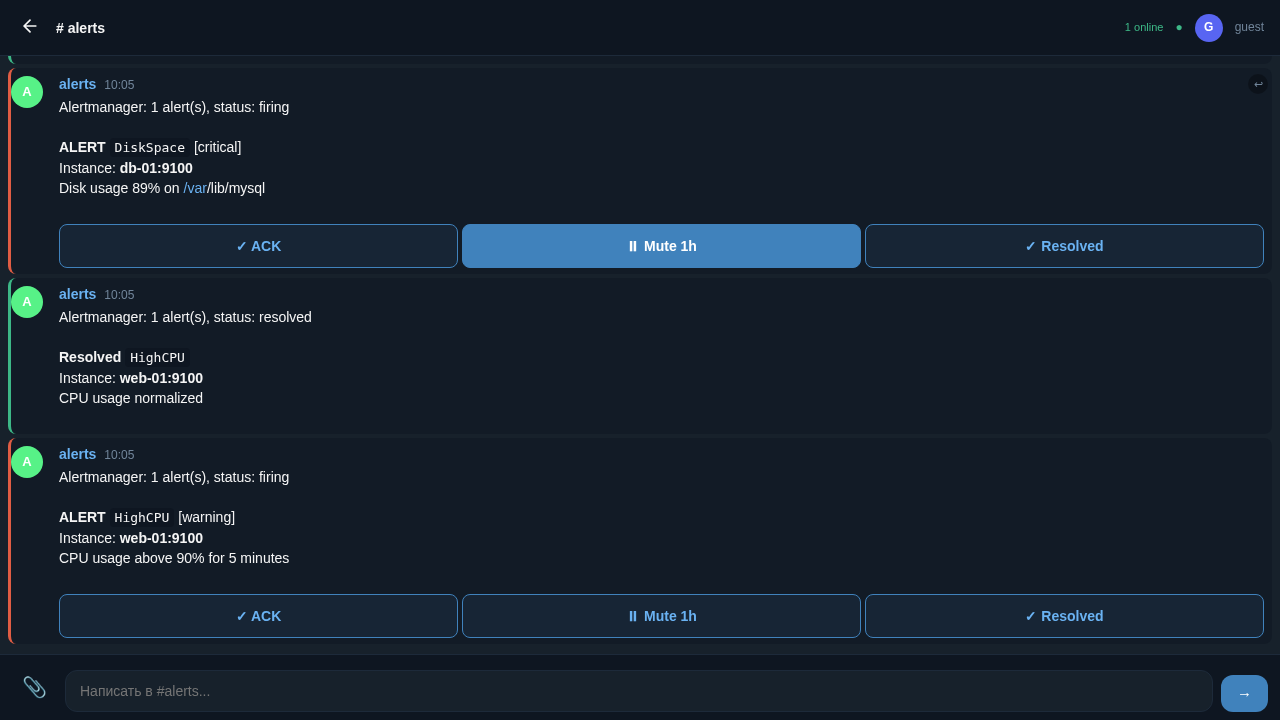
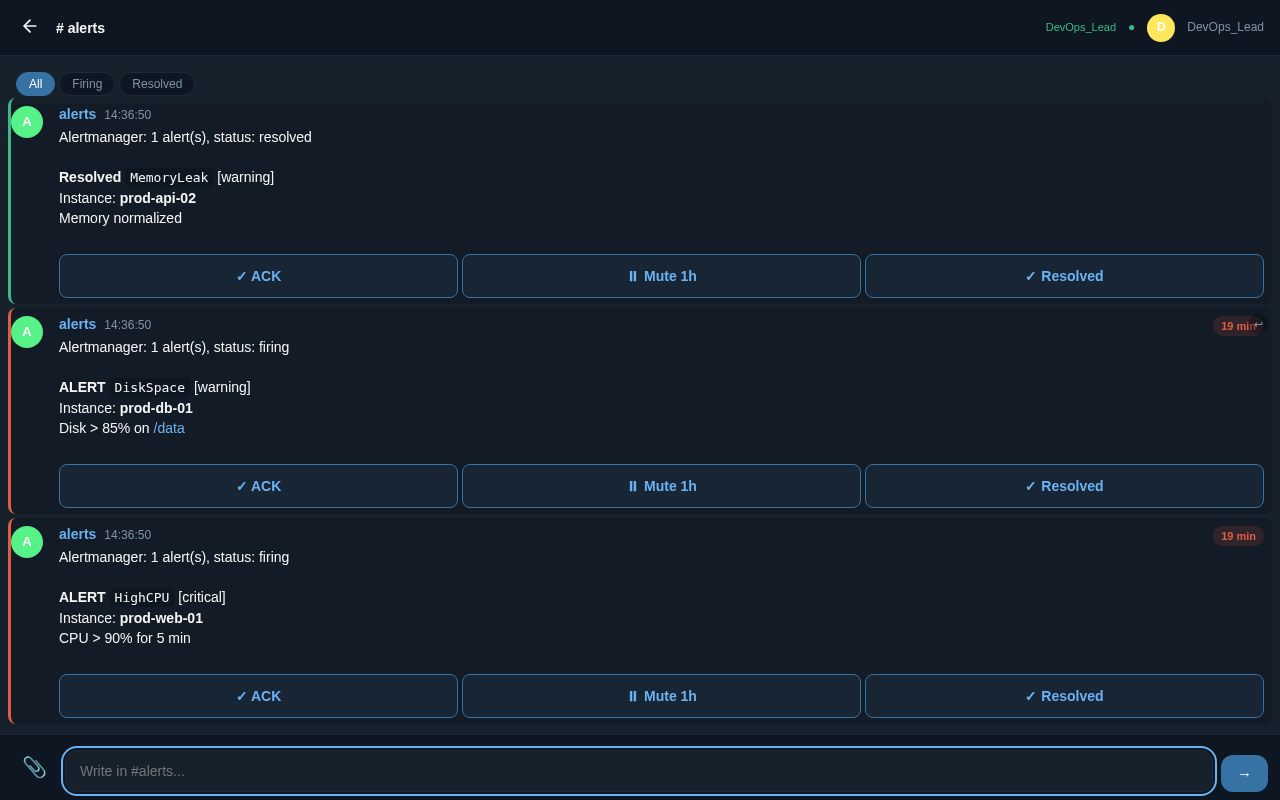
assets: update screenshots with new features, bump SW cache v41
- landing: demo chat with DemoBot
- app: onboarding cards, channels with badges, alert platform subtitle
- alerts: firing/resolved/ACK buttons, filter bar, elapsed time
- chat: team conversation, join notification, @mention, read receipts
- New screenshot: chat.png (general channel)
- SW cache v40 → v41 to invalidate stale JS cache

diff --git a/web/static/sw.js b/web/static/sw.js
@@ -1,5 +1,5 @@
 // Pusk Service Worker — App Shell cache + Push notifications
-const CACHE = 'pusk-v40';
+const CACHE = 'pusk-v41';
 const SHELL = [
   '/',
   '/css/pusk.css',
